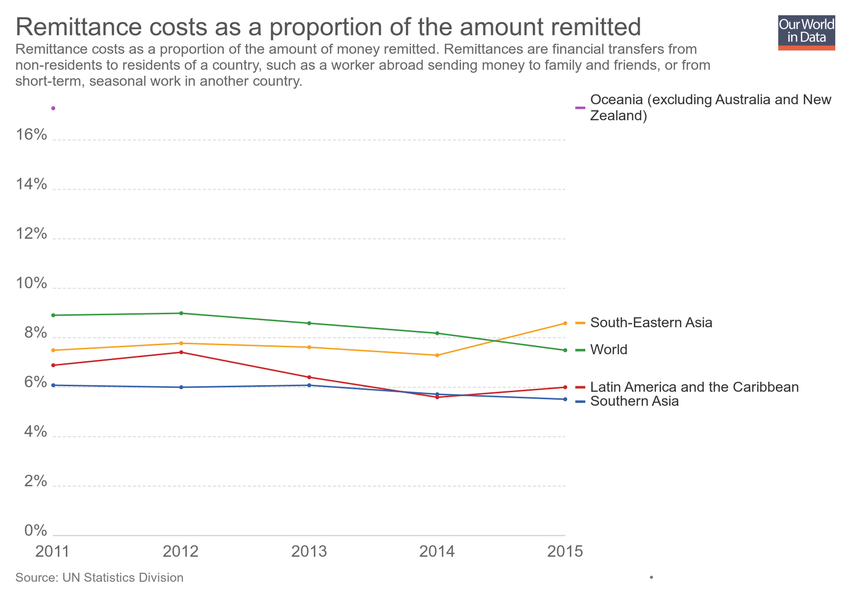
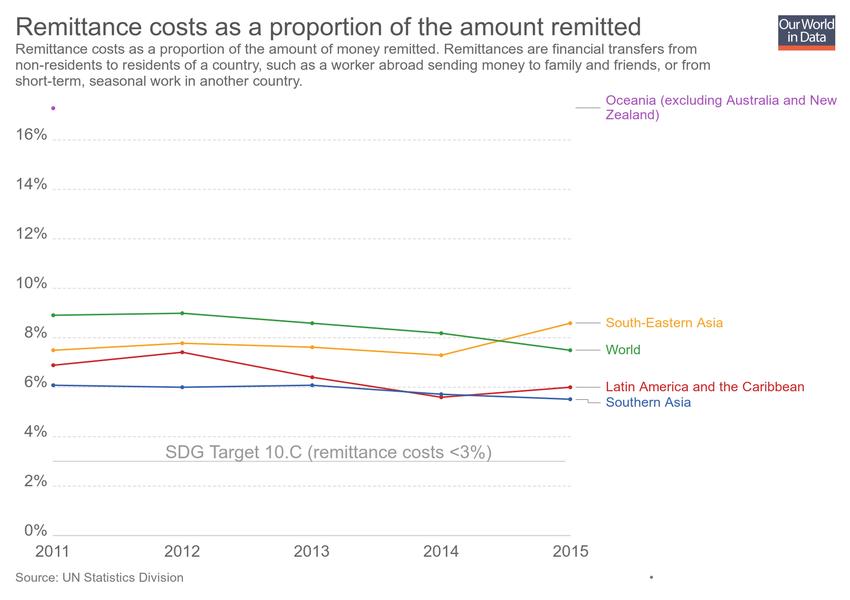
Updating chart remittance-costs-as-share-of-amount-remitted

diff --git a/grapher/remittance-costs-as-share-of-amount-remitted.html b/grapher/remittance-costs-as-share-of-amount-remitted.html
@@ -1,4 +1,4 @@
-<!doctype html><html><head><meta name="viewport" content="width=device-width, initial-scale=1" /><title>Remittance costs as a proportion of the amount remitted - Our World in Data</title><meta name="description" content="Remittance costs as a proportion of the amount of money remitted. Remittances are financial transfers from non-residents to residents of a country, such as a worker abroad sending money to family and friends, or from short-term, seasonal work in another country." /><link rel="canonical" href="https://ourworldindata.org/grapher/remittance-costs-as-share-of-amount-remitted" /><meta property="fb:app_id" content="1149943818390250" /><meta property="og:url" content="https://ourworldindata.org/grapher/remittance-costs-as-share-of-amount-remitted" /><meta property="og:title" content="Remittance costs as a proportion of the amount remitted" /><meta property="og:description" content="Remittance costs as a proportion of the amount of money remitted. Remittances are financial transfers from non-residents to residents of a country, such as a worker abroad sending money to family and friends, or from short-term, seasonal work in another country." /><meta property="og:image" content="https://ourworldindata.org/grapher/exports/remittance-costs-as-share-of-amount-remitted.png?v=1" /><meta property="og:image:width" content="850" /><meta property="og:image:height" content="600" /><meta property="og:site_name" content="Our World in Data" /><meta name="twitter:card" content="summary_large_image" /><meta name="twitter:site" content="@OurWorldInData" /><meta name="twitter:creator" content="@OurWorldInData" /><meta name="twitter:title" content="Remittance costs as a proportion of the amount remitted" /><meta name="twitter:description" content="Remittance costs as a proportion of the amount of money remitted. Remittances are financial transfers from non-residents to residents of a country, such as a worker abroad sending money to family and friends, or from short-term, seasonal work in another country." /><meta name="twitter:image" content="https://ourworldindata.org/grapher/exports/remittance-costs-as-share-of-amount-remitted.png?v=1" /><style>
+<!doctype html><html><head><meta name="viewport" content="width=device-width, initial-scale=1" /><title>Remittance costs as a proportion of the amount remitted - Our World in Data</title><meta name="description" content="Remittance costs as a proportion of the amount of money remitted. Remittances are financial transfers from non-residents to residents of a country, such as a worker abroad sending money to family and friends, or from short-term, seasonal work in another country." /><link rel="canonical" href="https://ourworldindata.org/grapher/remittance-costs-as-share-of-amount-remitted" /><meta property="fb:app_id" content="1149943818390250" /><meta property="og:url" content="https://ourworldindata.org/grapher/remittance-costs-as-share-of-amount-remitted" /><meta property="og:title" content="Remittance costs as a proportion of the amount remitted" /><meta property="og:description" content="Remittance costs as a proportion of the amount of money remitted. Remittances are financial transfers from non-residents to residents of a country, such as a worker abroad sending money to family and friends, or from short-term, seasonal work in another country." /><meta property="og:image" content="https://ourworldindata.org/grapher/exports/remittance-costs-as-share-of-amount-remitted.png?v=2" /><meta property="og:image:width" content="850" /><meta property="og:image:height" content="600" /><meta property="og:site_name" content="Our World in Data" /><meta name="twitter:card" content="summary_large_image" /><meta name="twitter:site" content="@OurWorldInData" /><meta name="twitter:creator" content="@OurWorldInData" /><meta name="twitter:title" content="Remittance costs as a proportion of the amount remitted" /><meta name="twitter:description" content="Remittance costs as a proportion of the amount of money remitted. Remittances are financial transfers from non-residents to residents of a country, such as a worker abroad sending money to family and friends, or from short-term, seasonal work in another country." /><meta name="twitter:image" content="https://ourworldindata.org/grapher/exports/remittance-costs-as-share-of-amount-remitted.png?v=2" /><style>
         html, body {
             height: 100%;
             margin: 0;
@@ -20,8 +20,8 @@
         }
     </style><noscript><style>
                     figure { display: none !important; }
-                </style></noscript><link rel="stylesheet" href="https://ourworldindata.org/grapher/assets/commons.bundle.dcbbe53805c487d5e57617b10ac73a8a.css" /><link rel="preload" href="/grapher/data/variables/66624.json?v=1" as="fetch" crossorigin /></head><body class="singleChart"><figure data-grapher-src="/grapher/remittance-costs-as-share-of-amount-remitted"></figure><noscript id="fallback"><img src="/grapher/exports/remittance-costs-as-share-of-amount-remitted.svg" /><p>Interactive visualization requires JavaScript</p></noscript><script src="https://cdn.polyfill.io/v2/polyfill.min.js?features=es6,fetch"></script><script src="https://ourworldindata.org/grapher/assets/commons.bundle.da523acc49807a06a11f.js"></script><script src="https://ourworldindata.org/grapher/assets/charts.bundle.da523acc49807a06a11f.js"></script><script>
-        var jsonConfig = {"map":{"projection":"World","colorSchemeLabels":[],"colorSchemeValues":[],"defaultProjection":"World","colorSchemeMinValue":0,"customNumericColors":[],"customCategoryColors":{},"customCategoryLabels":{},"customHiddenCategories":{}},"tab":"chart","slug":"remittance-costs-as-share-of-amount-remitted","type":"LineChart","title":"Remittance costs as a proportion of the amount remitted","xAxis":{"scaleType":"linear"},"yAxis":{"min":0,"scaleType":"linear"},"version":1,"subtitle":"Remittance costs as a proportion of the amount of money remitted. Remittances are financial transfers from non-residents to residents of a country, such as a worker abroad sending money to family and friends, or from short-term, seasonal work in another country.","hasMapTab":false,"stackMode":"absolute","dimensions":[{"display":{"unit":"%"},"property":"y","variableId":66624}],"entityType":"region","sourceDesc":"UN Statistics Division","hasChartTab":true,"isPublished":true,"selectedData":[{"index":0,"entityId":343},{"index":0,"entityId":36415},{"index":0,"entityId":471},{"index":0,"entityId":470},{"index":0,"entityId":355}],"addCountryMode":"add-country","id":2073};
+                </style></noscript><link rel="stylesheet" href="https://ourworldindata.org/grapher/assets/commons.bundle.dcbbe53805c487d5e57617b10ac73a8a.css" /><link rel="preload" href="/grapher/data/variables/66624.json?v=2" as="fetch" crossorigin /></head><body class="singleChart"><figure data-grapher-src="/grapher/remittance-costs-as-share-of-amount-remitted"></figure><noscript id="fallback"><img src="/grapher/exports/remittance-costs-as-share-of-amount-remitted.svg" /><p>Interactive visualization requires JavaScript</p></noscript><script src="https://cdn.polyfill.io/v2/polyfill.min.js?features=es6,fetch"></script><script src="https://ourworldindata.org/grapher/assets/commons.bundle.da523acc49807a06a11f.js"></script><script src="https://ourworldindata.org/grapher/assets/charts.bundle.da523acc49807a06a11f.js"></script><script>
+        var jsonConfig = {"id":2073,"map":{"projection":"World","colorSchemeLabels":[],"colorSchemeValues":[],"colorSchemeMinValue":0,"customNumericColors":[],"customCategoryColors":{},"customCategoryLabels":{},"customHiddenCategories":{}},"tab":"chart","slug":"remittance-costs-as-share-of-amount-remitted","type":"LineChart","title":"Remittance costs as a proportion of the amount remitted","xAxis":{"scaleType":"linear"},"yAxis":{"min":0,"scaleType":"linear"},"version":2,"subtitle":"Remittance costs as a proportion of the amount of money remitted. Remittances are financial transfers from non-residents to residents of a country, such as a worker abroad sending money to family and friends, or from short-term, seasonal work in another country.","hasMapTab":false,"stackMode":"absolute","dimensions":[{"display":{"unit":"%"},"property":"y","variableId":66624}],"entityType":"region","sourceDesc":"UN Statistics Division","hasChartTab":true,"isPublished":true,"selectedData":[{"index":0,"entityId":343},{"index":0,"entityId":36415},{"index":0,"entityId":471},{"index":0,"entityId":470},{"index":0,"entityId":355}],"addCountryMode":"add-country","comparisonLine":{"label":"SDG Target 10.C (remittance costs <3%)","yEquals":"3"}};
         var figure = document.getElementsByTagName("figure")[0];
         try {
             window.App = {};
